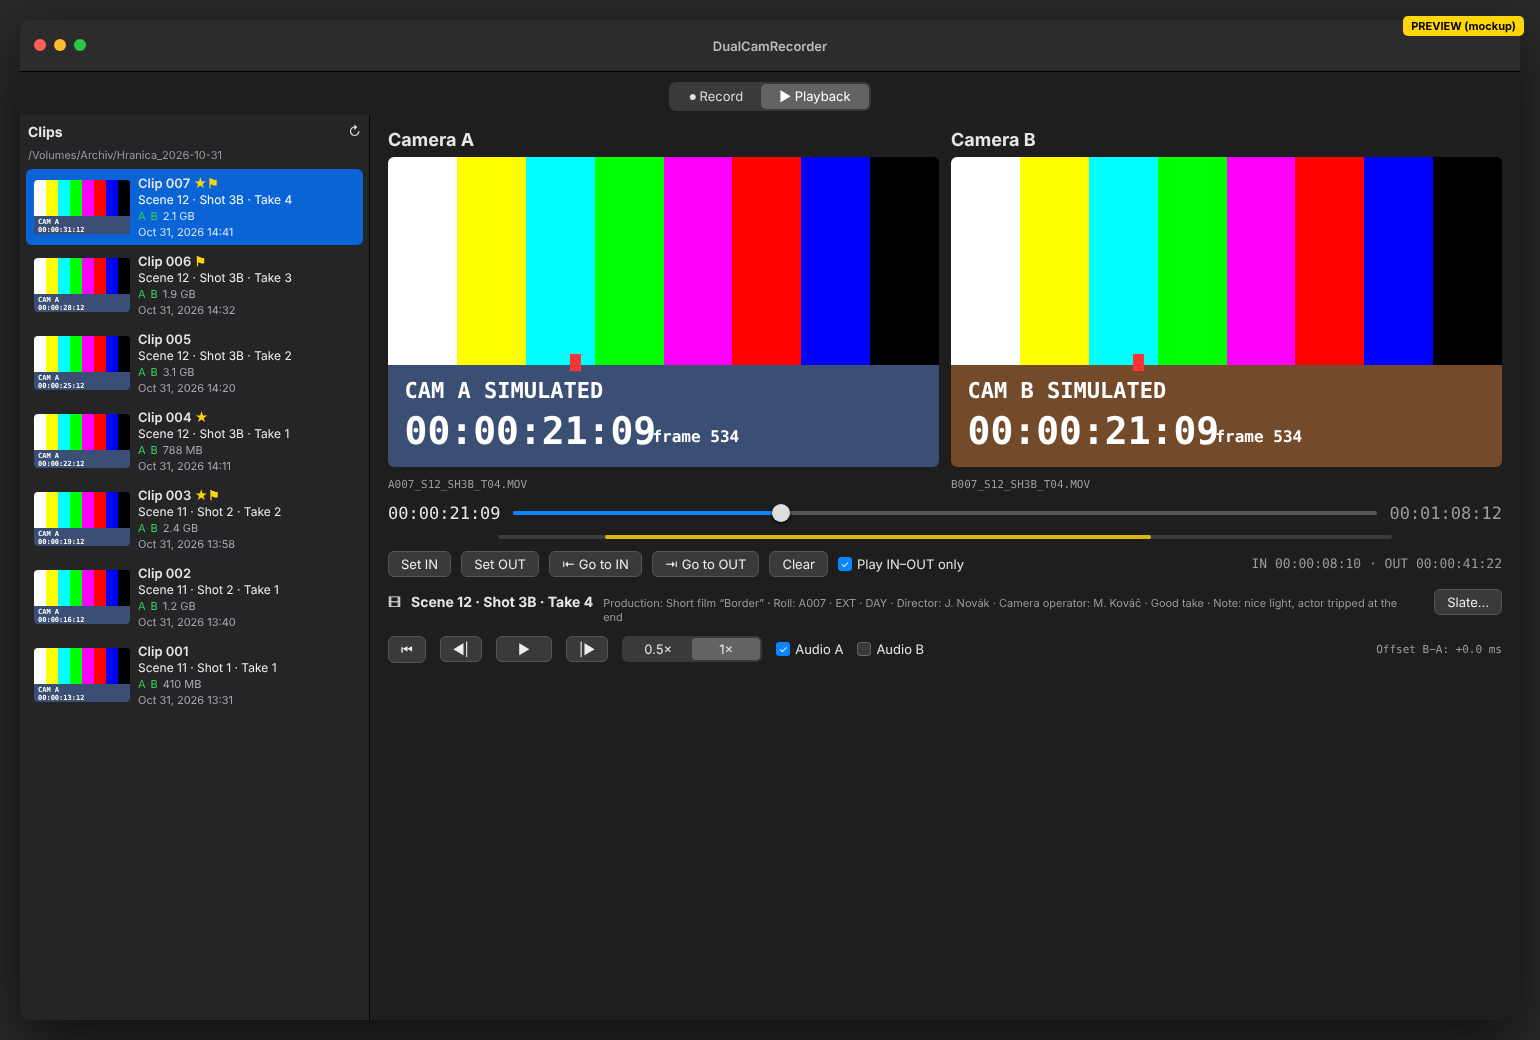
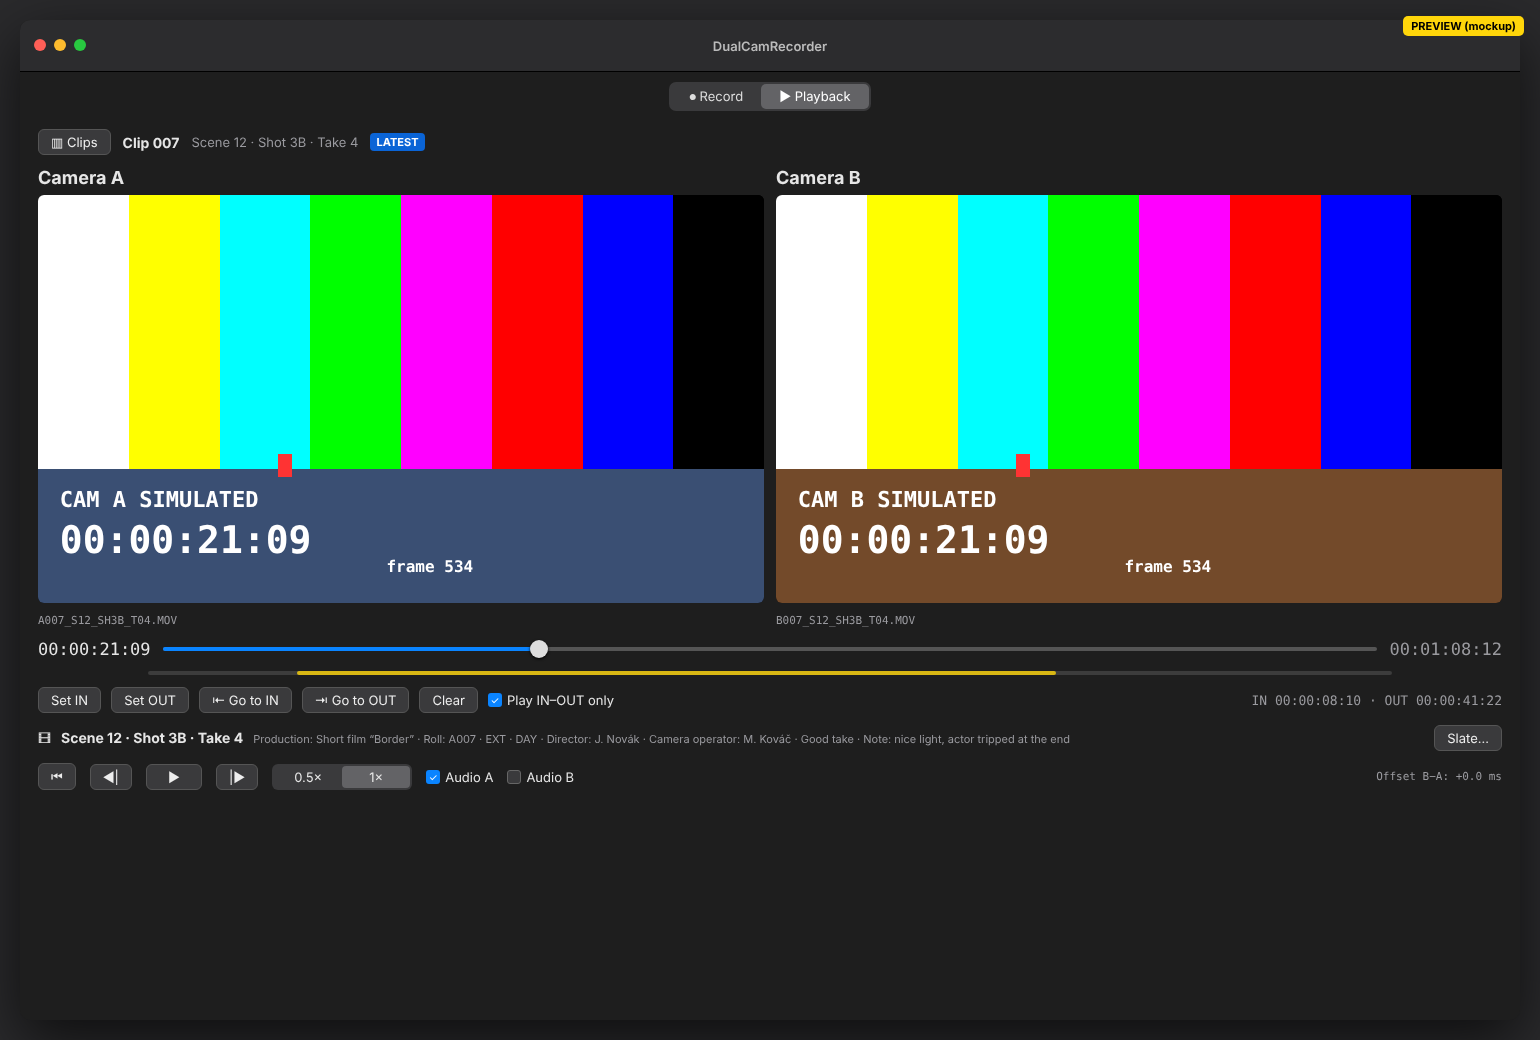
Hide the clip list by default and cue the latest clip in Playback
The clip list is now a sidebar toggled by a "Clips" button (Cmd-L), so
both players use the full window width. Switching to the Playback tab
selects the most recent clip (marked LATEST) once the folder scan
finishes; another clip can be picked from the list, which the user then
hides again. A header shows the loaded clip and its slate.

Claude-Session: https://claude.ai/code/session_01SjxyfTkJQH7RKsrkA8EJQA

diff --git a/DualCamRecorder/Views/PlaybackView.swift b/DualCamRecorder/Views/PlaybackView.swift
@@ -13,12 +13,21 @@ struct PlaybackView: View {
     @State private var scrubValue: Double = 0
     @State private var isScrubbing = false
     @State private var editingSlate = false
+    /// Clip list is hidden by default – opened with the "Clips" button (⌘L) and hidden again by the user.
+    @State private var showClipList = false
+    /// Set when the tab appears: select the most recent clip as soon as the list is (re)loaded.
+    @State private var selectLatestPending = false
 
     var body: some View {
-        HSplitView {
-            takeList
-                .frame(minWidth: 300, idealWidth: 340, maxWidth: 440)
+        HStack(spacing: 0) {
+            if showClipList {
+                takeList
+                    .frame(width: 340)
+                    .transition(.move(edge: .leading))
+                Divider()
+            }
             VStack(spacing: 12) {
+                header
                 HStack(spacing: 12) {
                     playerPane(title: "Camera A", file: player.take?.camA, available: player.take?.camA != nil, content: PlayerView(player: player.playerA))
                     playerPane(title: "Camera B", file: player.take?.camB, available: player.take?.camB != nil, content: PlayerView(player: player.playerB))
@@ -29,8 +38,26 @@ struct PlaybackView: View {
             .padding()
             .frame(minWidth: 700)
         }
-        .onAppear { library.setFolder(settings.playbackFolderURL) }
-        .onChange(of: settings.playbackFolderURL) { _, url in library.setFolder(url) }
+        .animation(.easeInOut(duration: 0.2), value: showClipList)
+        .onAppear {
+            // Switching to Playback always cues the latest recorded clip.
+            selectLatestPending = true
+            library.setFolder(settings.playbackFolderURL)
+            selectLatest()
+            // Stop waiting for a re-scan after a moment, so later folder changes do not jump the selection.
+            DispatchQueue.main.asyncAfter(deadline: .now() + 2) { selectLatestPending = false }
+        }
+        .onDisappear { selectLatestPending = false }
+        .onChange(of: settings.playbackFolderURL) { _, url in
+            selectLatestPending = true
+            library.setFolder(url)
+        }
+        .onChange(of: library.takes) { _, _ in
+            if selectLatestPending {
+                selectLatest()
+                selectLatestPending = false
+            }
+        }
         .onChange(of: selection) { _, id in
             player.load(library.takes.first { $0.id == id })
         }
@@ -38,6 +65,43 @@ struct PlaybackView: View {
             if !isScrubbing { scrubValue = t }
         }
         .onReceive(NotificationCenter.default.publisher(for: .takeFinished)) { _ in library.refresh() }
+    }
+
+    /// Newest clip = first in the list (sorted by clip number, descending).
+    private func selectLatest() {
+        guard let latest = library.takes.first else { return }
+        if selection != latest.id {
+            selection = latest.id
+        } else if player.take?.id != latest.id {
+            player.load(latest)
+        }
+    }
+
+    /// Clip list toggle + what is loaded.
+    private var header: some View {
+        HStack(spacing: 12) {
+            Button {
+                showClipList.toggle()
+            } label: {
+                Label(showClipList ? "Hide clips" : "Clips", systemImage: "sidebar.left")
+            }
+            .keyboardShortcut("l", modifiers: [.command])
+            .help("Show / hide the clip list (⌘L)")
+
+            if let take = player.take {
+                Text(take.name).font(.headline)
+                if let slate = take.slate {
+                    Text(slate.shortLabel).foregroundStyle(.secondary)
+                }
+                if take.id == library.takes.first?.id {
+                    Badge(text: "LATEST", color: .blue)
+                }
+            } else {
+                Text(library.takes.isEmpty ? "No clips in this folder yet." : "No clip selected.")
+                    .foregroundStyle(.secondary)
+            }
+            Spacer()
+        }
     }
 
     private var takeList: some View {

diff --git a/README.md b/README.md
@@ -55,6 +55,9 @@ Rozhranie aplikácie je **v angličtine** (Record / Playback / Slate …); tento
 ### Záložka PREHRÁVANIE
 - Pri zábere v zozname je aj „Obraz · Záber · Pokus“ a ★ pri dobrom pokuse; pod prehrávačmi
   je súhrn klapky a tlačidlo **Klapka…** na dodatočnú úpravu (uloží sa do `C###_SLATE.JSON`).
+- **Zoznam klipov je predvolene skrytý** – otvorí/skryje ho tlačidlo **Clips** (⌘L), takže
+  prehrávače majú celú šírku okna. Pri prepnutí na Playback sa **automaticky načíta posledný
+  nahraný klip** (označený LATEST); iný klip vyberieš v zozname a zoznam potom skryješ.
 - Zoznam záberov v priečinku (sleduje zmeny v priečinku; práve nahrávaný záber je skrytý),
   pri každom zábere **náhľadový obrázok zo stredu záznamu** (z CamA, ak chýba tak z CamB).
 - Po výbere sa načíta CamA a CamB vedľa seba v dvoch `AVPlayer`-och.
